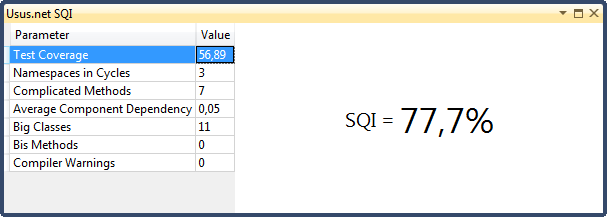
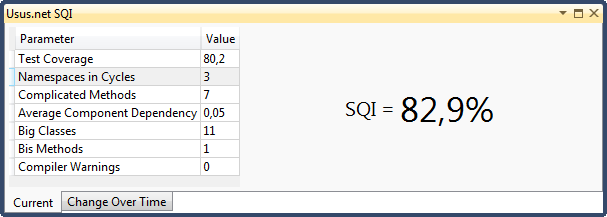
sqi history saved and displayed

diff --git a/source/Usus.net/Usus.net.View/SQI.xaml b/source/Usus.net/Usus.net.View/SQI.xaml
@@ -3,6 +3,7 @@
              xmlns:x="http://schemas.microsoft.com/winfx/2006/xaml"
              xmlns:mc="http://schemas.openxmlformats.org/markup-compatibility/2006" 
              xmlns:d="http://schemas.microsoft.com/expression/blend/2008" 
+             xmlns:dvc="clr-namespace:System.Windows.Controls.DataVisualization.Charting;assembly=System.Windows.Controls.DataVisualization.Toolkit"
              mc:Ignorable="d" 
              d:DesignHeight="300" d:DesignWidth="300">
     <UserControl.Resources>
@@ -13,16 +14,38 @@
             <RowDefinition Height="Auto"/>
             <RowDefinition/>
         </Grid.RowDefinitions>
-        <Grid.ColumnDefinitions>
-            <ColumnDefinition Width="Auto"/>
-            <ColumnDefinition/>
-        </Grid.ColumnDefinitions>
-        <ProgressBar Style="{StaticResource AnalysisProgress}" Grid.ColumnSpan="2"/>
-        <DataGrid Grid.Row="1" ItemsSource="{Binding Parameters}"
-                  Style="{StaticResource DisplayGrid}" IsReadOnly="False"/>
-        <StackPanel Grid.Row="1" Grid.Column="1" Orientation="Horizontal" VerticalAlignment="Center" HorizontalAlignment="Center">
-            <TextBlock Text="SQI = " FontSize="20" VerticalAlignment="Center"/>
-            <TextBlock Text="{Binding Sqi}" FontSize="35"/>
-        </StackPanel>
+        <ProgressBar Style="{StaticResource AnalysisProgress}"/>
+        <TabControl Grid.Row="1" Style="{StaticResource BottomTabs}">
+            <TabItem Header="Current">
+                <Grid>
+                    <Grid.ColumnDefinitions>
+                        <ColumnDefinition Width="Auto"/>
+                        <ColumnDefinition/>
+                    </Grid.ColumnDefinitions>
+                    <DataGrid ItemsSource="{Binding Parameters}"
+                              Style="{StaticResource DisplayGrid}" IsReadOnly="False"/>
+                    <StackPanel Grid.Row="1" Grid.Column="1" Orientation="Horizontal" 
+                                VerticalAlignment="Center" HorizontalAlignment="Center">
+                        <TextBlock Text="SQI = " FontSize="20" VerticalAlignment="Center"/>
+                        <TextBlock Text="{Binding Sqi}" FontSize="35"/>
+                    </StackPanel>
+                </Grid>
+            </TabItem>
+            <TabItem Header="Change Over Time">
+                <Grid>
+                    <dvc:Chart Grid.Row="1" Style="{StaticResource NoWhitespaceChart}" >
+                        <dvc:Chart.Series>
+                            <dvc:LineSeries ItemsSource="{Binding SqiOverTime.PointsInTime}" 
+                                            IndependentValueBinding="{Binding Path=Key}" 
+                                            DependentValueBinding="{Binding Path=Value}"
+                                            PolylineStyle="{StaticResource ThickLine}"/>
+                        </dvc:Chart.Series>
+                        <dvc:Chart.Axes>
+                            <dvc:LinearAxis Orientation="Y" Minimum="0" Maximum="100" ShowGridLines="True"/>
+                        </dvc:Chart.Axes>
+                    </dvc:Chart>
+                </Grid>
+            </TabItem>
+        </TabControl>
     </Grid>
 </UserControl>

diff --git a/source/Usus.net/Usus.net.View/Distributions.xaml b/source/Usus.net/Usus.net.View/Distributions.xaml
@@ -4,7 +4,6 @@
              xmlns:mc="http://schemas.openxmlformats.org/markup-compatibility/2006" 
              xmlns:d="http://schemas.microsoft.com/expression/blend/2008" 
              xmlns:dvc="clr-namespace:System.Windows.Controls.DataVisualization.Charting;assembly=System.Windows.Controls.DataVisualization.Toolkit"
-             xmlns:chartingprimitives="clr-namespace:System.Windows.Controls.DataVisualization.Charting.Primitives;assembly=System.Windows.Controls.DataVisualization.Toolkit"
              mc:Ignorable="d" 
              d:DesignHeight="300" d:DesignWidth="300">
     <UserControl.Resources>

diff --git a/source/Usus.net/Usus.net.View/ViewResources.xaml b/source/Usus.net/Usus.net.View/ViewResources.xaml
@@ -45,6 +45,10 @@
         </Border>
     </ControlTemplate>
 
+    <Style x:Key="ThickLine" TargetType="{x:Type Polyline}">
+        <Setter Property="StrokeThickness" Value="3" />
+    </Style>
+
     <Style x:Key="NoWhitespaceChart" TargetType="dvc:Chart">
         <Setter Property="Template" Value="{StaticResource NoChartPadding}"/>
         <Setter Property="Margin" Value="0"/>

diff --git a/source/Usus.net/Usus.net.View/ViewModels/SQI/SqiHistory.cs b/source/Usus.net/Usus.net.View/ViewModels/SQI/SqiHistory.cs
@@ -1,0 +1,81 @@
+using System;
+using System.Linq;
+using System.Collections.Generic;
+using System.Collections.ObjectModel;
+using System.Globalization;
+using System.IO;
+using andrena.Usus.net.Core.Helper;
+
+namespace andrena.Usus.net.View.ViewModels.SQI
+{
+    public class SqiHistory
+    {
+        private string _solution;
+        public ObservableCollection<KeyValuePair<DateTime, double>> PointsInTime { get; private set; }
+
+        public SqiHistory()
+        {
+            PointsInTime = new ObservableCollection<KeyValuePair<DateTime, double>>();
+        }
+
+        public void Now(double currentSqi, string solution)
+        {
+            if (!string.IsNullOrEmpty(solution))
+                EnsureSolutionContext(solution);
+            StorePoint(DateTime.Now, currentSqi);
+        }
+
+        private void EnsureSolutionContext(string solution)
+        {
+            if (_solution != solution)
+            {
+                _solution = solution;
+                LoadPreviousPoints();
+            }
+        }
+
+        private void LoadPreviousPoints()
+        {
+            PointsInTime.Clear();
+            foreach (var sqiFile in PreviousSqiFiles) LoadSqiFrom(sqiFile);
+        }
+
+        private void LoadSqiFrom(string sqiFile)
+        {
+            try
+            {
+                PointsInTime.Add(ParseSqiAndTime(sqiFile));
+            }
+            catch (Exception)
+            { }
+        }
+
+        private KeyValuePair<DateTime, double> ParseSqiAndTime(string sqiFile)
+        {
+            var sqi = Convert.ToDouble(File.ReadAllText(sqiFile), CultureInfo.InvariantCulture); 
+            var time = new DateTime(long.Parse(Path.GetFileNameWithoutExtension(sqiFile)));
+            return time.WithValue(sqi);
+        }
+
+        private void StorePoint(DateTime time, double sqi)
+        {
+            PointsInTime.Add(time.WithValue(sqi));
+            File.WriteAllText(Path.Combine(SqiFolder, time.Ticks + ".sqi"), Convert.ToString(sqi, CultureInfo.InvariantCulture));
+        }
+
+        private string SqiFolder
+        {
+            get
+            {
+                var sqiFolder = Path.Combine(Path.GetDirectoryName(_solution), "_sqi");
+                if (!Directory.Exists(sqiFolder)) Directory.CreateDirectory(sqiFolder);
+                return sqiFolder;
+            }
+        }
+
+        private IEnumerable<string> PreviousSqiFiles
+        {
+            get { return Directory.EnumerateFiles(SqiFolder, "*.sqi").OrderByDescending(f => f).Take(100); }
+        }
+    }
+}

diff --git a/source/Usus.net/Usus.net.View/ViewModels/SQI/SQI.cs b/source/Usus.net/Usus.net.View/ViewModels/SQI/SQI.cs
@@ -10,6 +10,8 @@ namespace andrena.Usus.net.View.ViewModels.SQI
     {
         public ObservableCollection<SqiParameter> Parameters { get; private set; }
         public IKnowSqiDetails Details { get; set; }
+        public SqiHistory SqiOverTime { get; set; }
+        
 
         public string Sqi { get; private set; }
         SqiParameters sqiParameters;
@@ -21,8 +23,10 @@ namespace andrena.Usus.net.View.ViewModels.SQI
         SqiParameter _BigMethods;
         SqiParameter _CompilerWarnings;
 
+        #region Setup
         public SQI()
         {
+            SqiOverTime = new SqiHistory();
             Parameters = new ObservableCollection<SqiParameter>();
             SetupSqi();
             SetupSqiParameters();
@@ -49,6 +53,7 @@ namespace andrena.Usus.net.View.ViewModels.SQI
             Parameters.Add(_BigMethods = sqiParameters.Assign("Bis Methods", 0, (p, v) => p.BigMethods = v));
             Parameters.Add(_CompilerWarnings = sqiParameters.Assign("Compiler Warnings", 0, (p, v) => p.CompilerWarnings = v));
         }
+        #endregion
 
         protected override void AnalysisStarted()
         {
@@ -59,6 +64,7 @@ namespace andrena.Usus.net.View.ViewModels.SQI
             SetCommonKnowledge(metrics);
             SetReportParameters(metrics);
             SetDetailParameters();
+            AddToSqiHistory();
         }
 
         private void SetCommonKnowledge(PreparedMetricsReport metrics)
@@ -82,6 +88,12 @@ namespace andrena.Usus.net.View.ViewModels.SQI
         {
             SqiParameterType.Percentage(Details.TestCoverage, v => _TestCoverage.Value = v);
             SqiParameterType.Number(Details.CompilerWarnings, v => _CompilerWarnings.Value = v);
+        }
+
+        private void AddToSqiHistory()
+        {
+            var solutionFile = Details.CurrentSolutionFile;
+            Dispatch(() => SqiOverTime.Now(sqiParameters.CurrentSqi, solutionFile));
         }
     }
 }

diff --git a/source/Usus.net/Usus.net.Core/AnalyzeParallel.cs b/source/Usus.net/Usus.net.Core/AnalyzeParallel.cs
@@ -6,19 +6,21 @@ using andrena.Usus.net.Core.Reports;
 
 namespace andrena.Usus.net.Core
 {
-    internal static class AnalyzeParallel
+    public static class AnalyzeParallel
     {
-        public static IEnumerable<MetricsReport> Files(string[] files, Func<string, MetricsReport> fileFunction)
+        public static MetricsReport PortableExecutables(params string[] asmFiles)
         {
-            return OnParallel(files, fileFunction);
+            var report = MetricsReport.Of(Parallel(asmFiles, Analyze.AnalyseFile));
+            report.PostProcess();
+            return report;
         }
 
-        private static IEnumerable<MetricsReport> OnParallel(string[] files, Func<string, MetricsReport> fileFunction)
+        private static IEnumerable<MetricsReport> Parallel(string[] files, Func<string, MetricsReport> fileFunction)
         {
             return from file in files.AsParallel() select fileFunction(file);
         }
 
-        private static IEnumerable<MetricsReport> OnTasks(string[] files, Func<string, MetricsReport> fileFunction)
+        private static IEnumerable<MetricsReport> Tasks(string[] files, Func<string, MetricsReport> fileFunction)
         {
             var tasks = GetAnalyzeTasks(files, fileFunction).ToArray();
             Task.WaitAll(tasks);

diff --git a/source/Usus.net/Usus.net.Core/Analyze.cs b/source/Usus.net/Usus.net.Core/Analyze.cs
@@ -24,14 +24,14 @@ namespace andrena.Usus.net.Core
             return report;
         }
         
-        private static MetricsReport AnalyseFile(string asmFile)
+        internal static MetricsReport AnalyseFile(string asmFile)
         {
             var mc = new MetricsCollector();
             mc.Analyze(asmFile);
             return mc.Report;
         }
 
-        private static void PostProcess(this MetricsReport metrics)
+        internal static void PostProcess(this MetricsReport metrics)
         {
             PostProcessTypeDependencies.Of(metrics);
             PostProcessNamespaceDependencies.Of(metrics);

diff --git a/source/Usus.net/Usus.net.View/ViewModels/SQI/SqiParameters.cs b/source/Usus.net/Usus.net.View/ViewModels/SQI/SqiParameters.cs
@@ -5,11 +5,12 @@ namespace andrena.Usus.net.View.ViewModels.SQI
 {
     public class SqiParameters : IParameterProvider
     {
+        public double CurrentSqi { get; private set; }
         public event Action<double> SqiChanged;
-
+        
         public SqiParameters()
         {
-            SqiChanged += sqi => { };
+            SqiChanged += sqi => CurrentSqi = sqi;
         }
 
         public SqiParameter Assign(string parameter, int value, Action<SqiParameters, int> valueAssignment)

diff --git a/source/Usus.net/Usus.net.Core/Helper/KeyValuePairExtensions.cs b/source/Usus.net/Usus.net.Core/Helper/KeyValuePairExtensions.cs
@@ -1,0 +1,12 @@
+using System.Collections.Generic;
+
+namespace andrena.Usus.net.Core.Helper
+{
+    public static class KeyValuePairExtensions
+    {
+        public static KeyValuePair<K, V> WithValue<K, V>(this K key, V value)
+        {
+            return new KeyValuePair<K, V>(key, value);
+        }
+    }
+}

diff --git a/source/Usus.net/Usus.net.Sqi/MyToolWindow.cs b/source/Usus.net/Usus.net.Sqi/MyToolWindow.cs
@@ -30,5 +30,10 @@ namespace andrena.Usus_net_Sqi
         {
             get { return GetErrors().WarningCount; }
         }
+
+        public string CurrentSolutionFile
+        {
+            get { return RawSolution.FullName; }
+        }
     }
 }

diff --git a/source/Usus.net/Usus.net.Shell/SqiDeatils.cs b/source/Usus.net/Usus.net.Shell/SqiDeatils.cs
@@ -13,5 +13,10 @@ namespace andrena.Usus.net.Shell
         {
             get { return 0; }
         }
+
+        public string CurrentSolutionFile
+        {
+            get { return null; }
+        }
     }
 }
